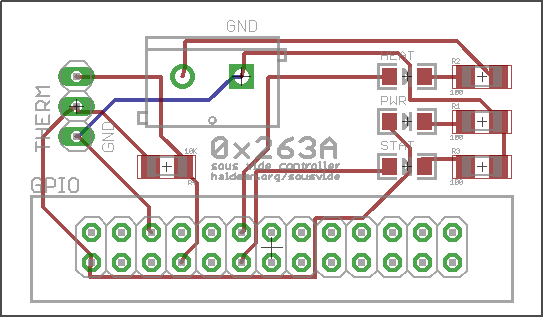
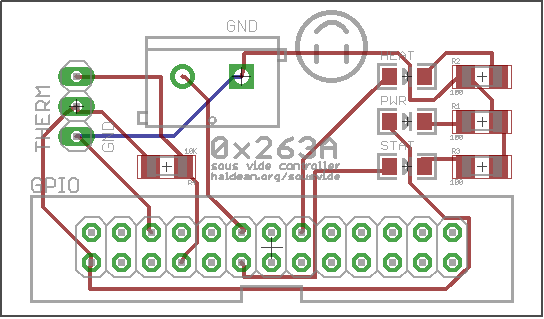
New schematic and board design

diff --git a/index.html b/index.html
@@ -104,7 +104,7 @@ temperature sensor.</p>
 Cobbler</a> from Adafruit and a breadboard. For the SV2 build, I
 designed a PCB to serve as a breakout from the Raspberry Pi&#8217;s GPIO header to the
 necessary peripherials; the designs for the PCB can be seen in the <a href="https://github.com/haldean/sousvide"><code>pcb</code>
-directory of the project</a> and can be ordered from <a href="http://oshpark.com/shared_projects/7Hz0psmY">OSH Park</a>.</p>
+directory of the project</a> and can be ordered from <a href="http://oshpark.com/shared_projects/UvBjOJIR/">OSH Park</a>.</p>
 
 <figure>
 <img src="casepcb.jpg" alt="The SV2 build with the PCB." />
@@ -158,16 +158,17 @@ dedicated to graphics memory and another quarter is used by the OS.</p>
 <p>The controller uses a variation on a <a href="http://en.wikipedia.org/wiki/PID_controller">PID controller</a> to determine whether
 the heaters should be on or off. Since the output of the control loop must, by
 nature of the hardware, be binary (the heaters cannot be half-on; they are
-either on or off), two aspects of the traditional PID controller do not apply:</p>
+either on or off), three aspects of the traditional PID controller do not apply:</p>
 
 <ul>
 <li>The output of a PID controller is continuous and unbounded, but I need a
  single binary output, so the continuous output has to be mapped to a binary
  on/off somehow.</li>
-<li>The integral term of a PID controller has no purpose. From a handwavey
- perspective, the purpose of the integral term is to make the machine &#8220;try
- harder&#8221; when the system is not responding adequately to the control. In the
- case where the controller gives a binary output, &#8220;try harder&#8221; has no meaning.</li>
+<li>The integral term of a PID controller is pointless in a binary system. From a
+ handwavey perspective, the purpose of the integral term is to make the machine
+ &#8220;try harder&#8221; when the system is not responding adequately to the control. In
+ the case where the controller gives a binary output, &#8220;try harder&#8221; has no
+ meaning.</li>
 <li>The integral term will often cause an overshoot in a slow-moving system like
  this one, and it&#8217;s more important that the food never exceed the cooking
  temperature than that it heats up quickly for cooking sous-vide.</li>
@@ -185,7 +186,7 @@ very proactive in turning them off when you get close to the target value.</p>
 
 <p>The second unusual thing I did was that I binarized the output of the
 controller; an output from the controller of greater than zero corresponds to
-heaters-on, and zero or less corresponds to zero-off. Doing this has the nice
+heaters-on, and zero or less corresponds to heaters-off. Doing this has the nice
 property that constant scaling factors do not matter when tuning the PID
 parameters; since only the sign of the output is used, it does not matter if the
 parameters are scaled because the sign will not change.</p>

diff --git a/sousvide.md b/sousvide.md
@@ -116,7 +116,7 @@ The total BoM cost for the electronics and hardware came out to $128.
 [occidentalis]: http://learn.adafruit.com/adafruit-raspberry-pi-educational-linux-distro/occidentalis-v0-dot-2
 [wifi]: http://www.amazon.com/gp/product/B006ZZUK5Y/
 [picobbler]: http://learn.adafruit.com/adafruit-pi-cobbler-kit/overview
-[oshpark]: http://oshpark.com/shared_projects/7Hz0psmY
+[oshpark]: http://oshpark.com/shared_projects/UvBjOJIR/
 [github]: https://github.com/haldean/sousvide
 
 ### User Interface
